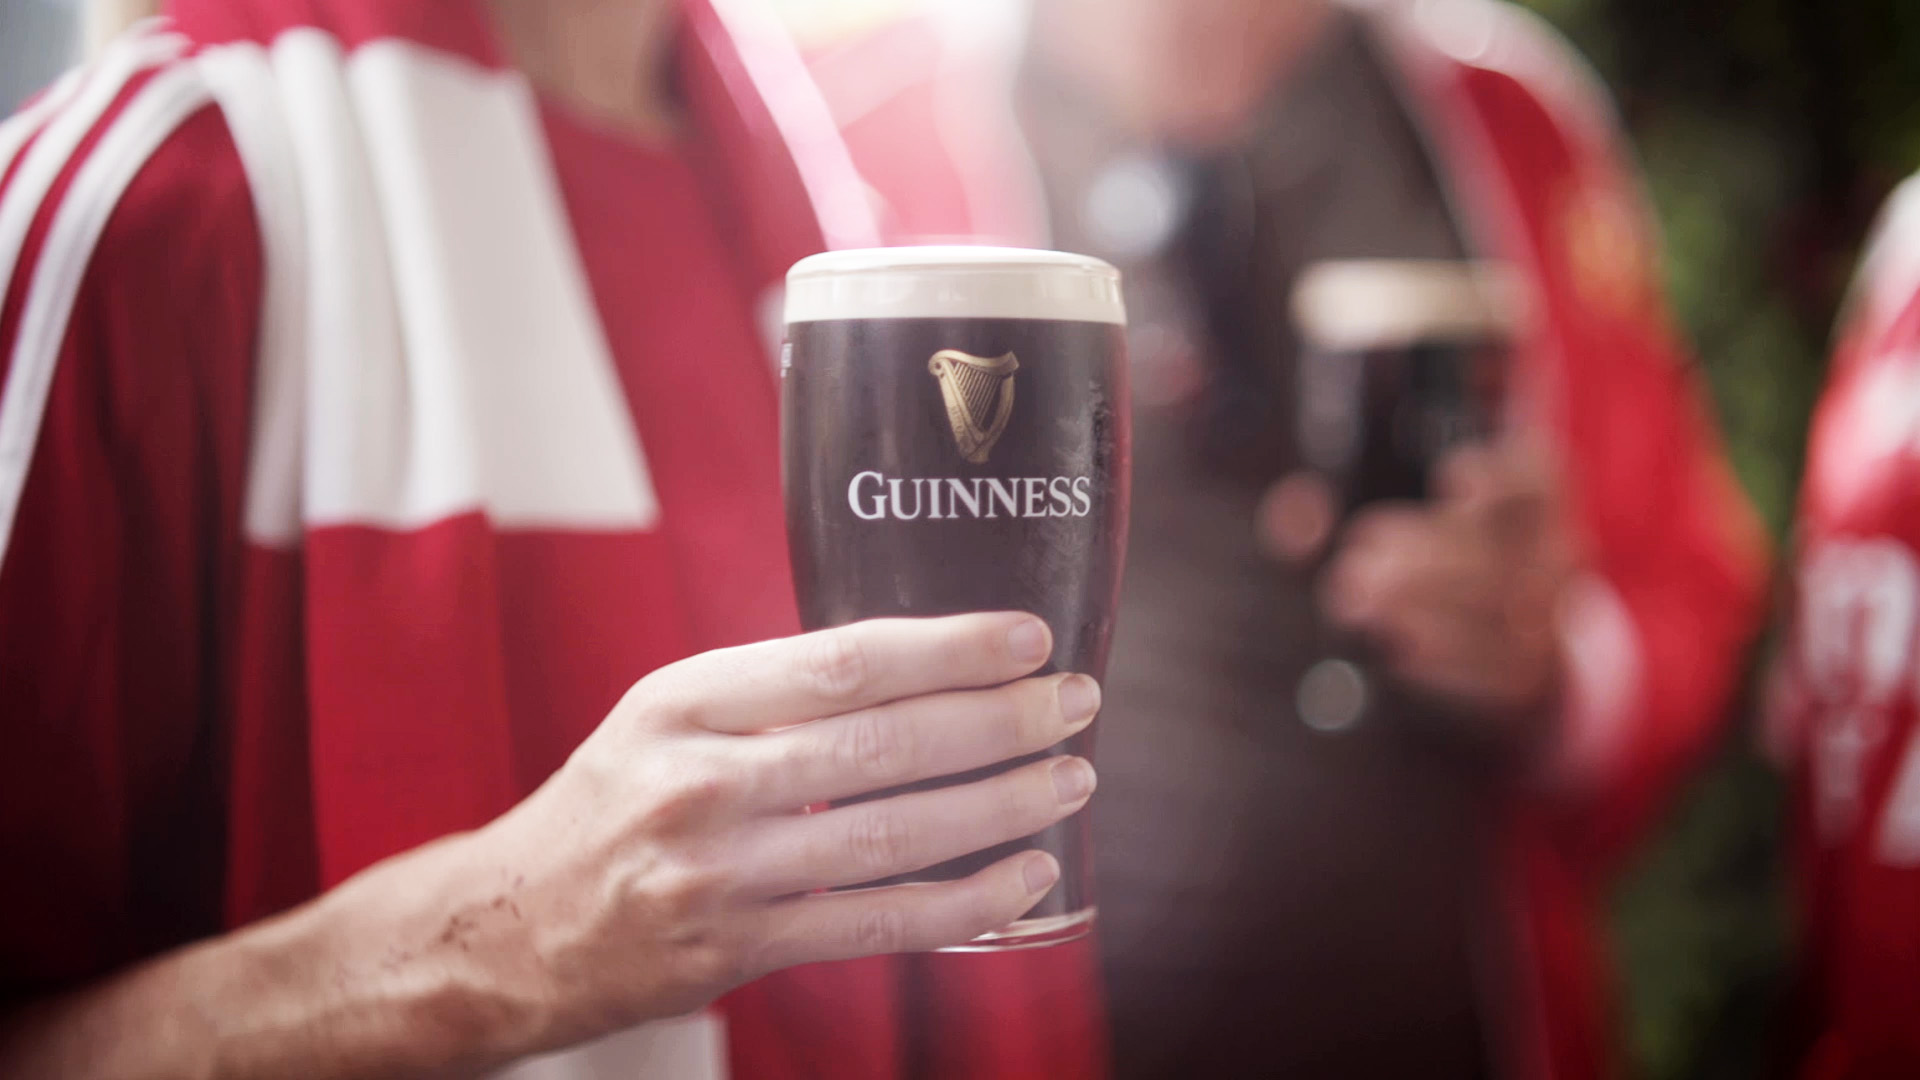
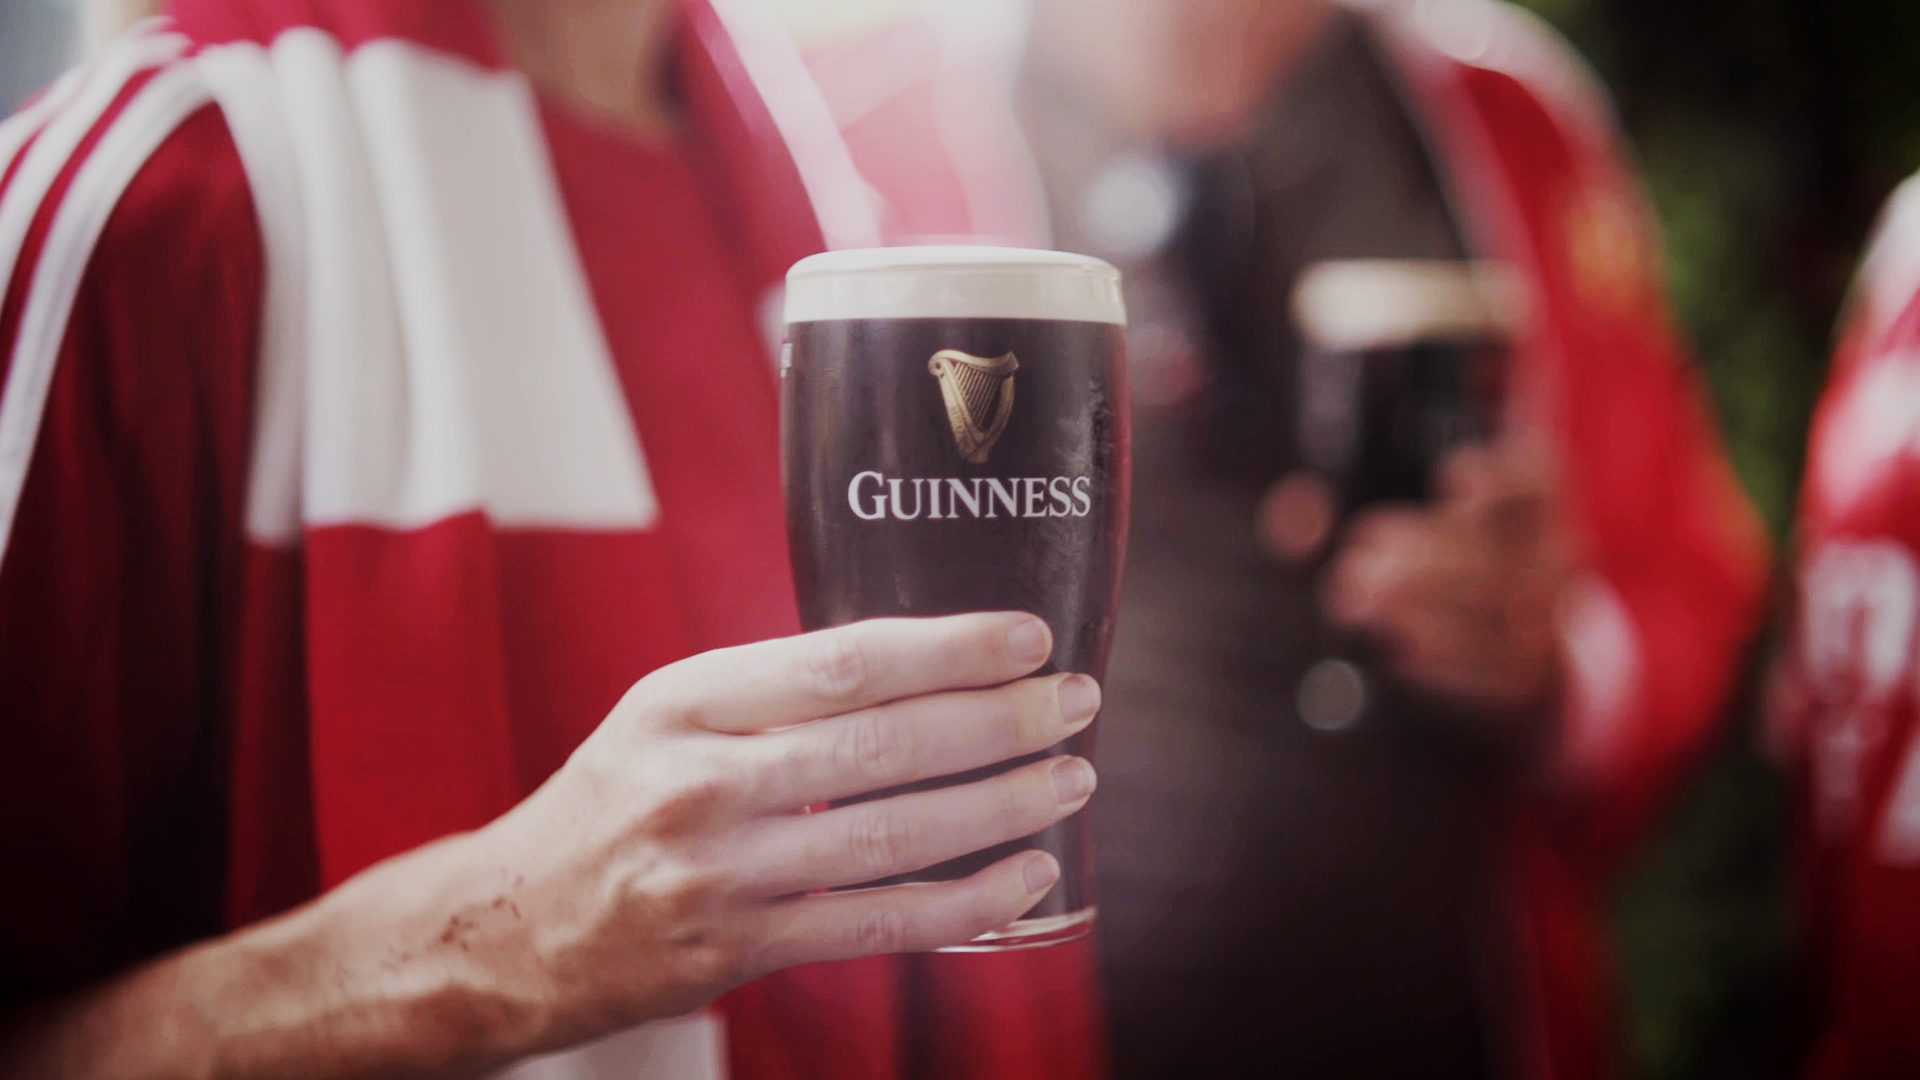
kdfbgj

diff --git a/300x250/index.html b/300x250/index.html
@@ -11,8 +11,9 @@
   </head>
   <body onload="init();">
     <div id="main">
-      <img src="images/bg.jpg" class="bg" id="bg" alt="" />
+      <img src="images/bg1.jpg" class="bg" id="bg" alt="" />
       <img src="images/copy.png" class="full-width copy" alt="" />
+      <img src="images/shadow.png" class="full-width copy" alt="" />
       <img src="images/last-line.svg" class="lastLine hidden" alt="" />
       <img src="images/logo.svg" class="logo hidden" alt="" />
       <div id="default_exit" class="btn"></div>
